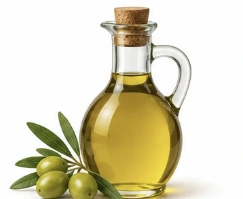
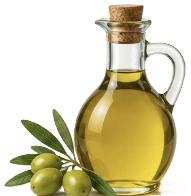
Φωνολογική Επίγνωση: 169 pictures (167 words) instead of emoji

diff --git a/eidiki-ekpaideysi/fonologiki-epignosi/paixnidi/js/pictures.js b/eidiki-ekpaideysi/fonologiki-epignosi/paixnidi/js/pictures.js
@@ -19,30 +19,36 @@
         'αυτοκινητο': 'aytokinito', 'αχλαδι': 'achladi', 'βαζο': 'vazo', 'βαλιτσα': 'valitsa', 'βαρελι': 'vareli', 'βαρκα': 'varka',
         'βατομουρα': 'vatomoura', 'βατομουρο': 'vatomoura', 'βατραχοσ': 'vatraxos', 'βγεσ': 'vges', 'βελονα': 'veloni', 'βελονι': 'veloni',
         'βερικοκο': 'verikoko', 'βιβλιο': 'vivlio', 'βιδα': 'vida', 'βιολι': 'violi', 'βοτανο': 'votano', 'βοτσαλα': 'votsala', 'βοτσαλο': 'votsala',
-        'βουνο': 'vouno', 'βροχη': 'vrochi', 'βρυση': 'vrysi', 'γαλα': 'gala', 'γατα': 'gata', 'γατακι': 'gata', 'γατος': 'gata', 'γεφυρα': 'gefyra',
-        'γομα': 'goma', 'γραβατα': 'gravata', 'δασοσ': 'dasos', 'δελφινι': 'delfini', 'δεμα': 'dema', 'δεντρακι': 'dentro', 'δεντρο': 'dentro',
-        'δρακοσ': 'drakos', 'δωρο': 'doro', 'εκκλησια': 'ekklisia', 'ελαφι': 'elafi', 'ελεφαντασ': 'elefantas', 'ελια': 'elia',
-        'ελικοπτερο': 'elikoptero', 'ζαμπον': 'zabon', 'ζαρι': 'zaria', 'ζαρια': 'zaria', 'ηλιοσ': 'ilios', 'ημερολογιο': 'imerologio',
-        'ηφαιστειο': 'ifaisteio', 'θαλασσα': 'thalassa', 'θεατρο': 'theatro', 'θερμομετρο': 'thermometro', 'καδοσ': 'kados', 'καμηλα': 'kamila',
-        'καπελο': 'kapelo', 'καρεκλα': 'karekla', 'καροτο': 'karoto', 'κερασι': 'kerasi', 'κερι': 'keri', 'κεφαλι': 'kefali', 'κλειδι': 'kleidi',
-        'κολονα': 'kolona', 'κουνελι': 'kouneli', 'κουταλι': 'koutali', 'κουτι': 'kouti', 'κρεβατι': 'krevati', 'λαδι': 'ladi', 'λεμονι': 'lemoni',
-        'λυκοσ': 'lykos', 'μαιμου': 'maimou', 'μαμα': 'mitera', 'ματι': 'mati', 'μελι': 'meli', 'μηλο': 'milo', 'μητερα': 'mitera',
-        'μολυβι': 'molyvi', 'μπαλονι': 'baloni', 'μπιζελι': 'bizeli', 'μυτη': 'myti', 'μωρο': 'moro', 'νεραιδα': 'neraida', 'νερο': 'nero',
-        'νοτα': 'nota', 'ντοματα': 'domata', 'νυχι': 'nychi', 'οδηγοσ': 'odigos', 'οδοντοβουρτσα': 'ododovourtsa', 'οδοσ': 'odos',
-        'ομελετα': 'omeleta', 'ομπρελα': 'obrela', 'ονειρο': 'oneiro', 'παπακι': 'papaki', 'πατατα': 'patata', 'πεπονι': 'peponi', 'πιτα': 'pita',
-        'ποδηλατο': 'podilato', 'ποδι': 'podi', 'ποταμι': 'potami', 'πουλι': 'pouli', 'ροδα': 'roda', 'ρολοι': 'roloi', 'σαλατα': 'salata',
-        'σαπουνι': 'sapouni', 'σελιδα': 'selida', 'τονοσ': 'tonos', 'τοπι': 'topi', 'τρενο': 'treno', 'τυρι': 'tyri', 'φακοσ': 'fakos',
-        'φαλαινα': 'falaina', 'φαναρι': 'fanari', 'φασολι': 'fasoli', 'φεγγαρι': 'fengari', 'φιδι': 'fidi', 'φλιτζανι': 'flitzani',
-        'φραουλα': 'fraoula', 'φτερο': 'ftero', 'φωτια': 'fotia', 'χαμογελο': 'chamogelo', 'χαρτησ': 'chartis', 'χελωνα': 'xelona', 'χερι': 'cheri',
-        'χιονανθρωποσ': 'chionanthropos', 'χιονι': 'chioni', 'χοροσ': 'choros', 'χταποδι': 'xtapodi', 'ψαλιδι': 'psalidi', 'ψαρασ': 'psaras',
-        'ψαρι': 'psari', 'ψητο': 'psito', 'ψιψινα': 'gata', 'ψυγειο': 'psygeio', 'ψωμι': 'psomi',
+        'βουνο': 'vouno', 'βροχη': 'vrochi', 'βρυση': 'vrysi', 'γαιδουρι': 'gaidouri', 'γαλα': 'gala', 'γατα': 'gata', 'γατακι': 'gata',
+        'γατος': 'gata', 'γεφυρα': 'gefyra', 'γομα': 'goma', 'γραβατα': 'gravata', 'δασοσ': 'dasos', 'δελφινι': 'delfini', 'δεμα': 'dema',
+        'δεντρακι': 'dentro', 'δεντρο': 'dentro', 'δρακοσ': 'drakos', 'δωρο': 'doro', 'εκκλησια': 'ekklisia', 'ελατο': 'elato', 'ελαφι': 'elafi',
+        'ελεφαντασ': 'elefantas', 'ελια': 'elia', 'ελικοπτερο': 'elikoptero', 'ζαμπον': 'zabon', 'ζαρι': 'zaria', 'ζαρια': 'zaria', 'ζωα': 'zoa',
+        'ζωγραφια': 'zografia', 'ηλιοσ': 'ilios', 'ημερολογιο': 'imerologio', 'ηφαιστειο': 'ifaisteio', 'θαλασσα': 'thalassa', 'θεατρο': 'theatro',
+        'θερμομετρο': 'thermometro', 'θυριδα': 'thyrida', 'καδοσ': 'kados', 'καλαθι': 'kalathi', 'καμηλα': 'kamila', 'καπελο': 'kapelo',
+        'καρεκλα': 'karekla', 'καροτο': 'karoto', 'κερασι': 'kerasi', 'κερι': 'keri', 'κεφαλι': 'kefali', 'κλειδι': 'kleidi', 'κολονα': 'kolona',
+        'κοπελα': 'kopela', 'κουνελι': 'kouneli', 'κουταλι': 'koutali', 'κουτι': 'kouti', 'κρεβατι': 'krevati', 'λαδι': 'ladi', 'λεμονι': 'lemoni',
+        'λεωφορειο': 'leoforeio', 'λιονταρι': 'liodari', 'λουλουδι': 'louloudi', 'λοφοσ': 'lofos', 'λυκοσ': 'lykos', 'μαιμου': 'maimou',
+        'μαμα': 'mitera', 'μανιταρι': 'manitari', 'μαξιλαρι': 'maxilari', 'ματι': 'mati', 'μελι': 'meli', 'μελισσα': 'melissa', 'μηλο': 'milo',
+        'μητερα': 'mitera', 'μολυβι': 'molyvi', 'μπαλονι': 'baloni', 'μπανανα': 'banana', 'μπιζελι': 'bizeli', 'μυτη': 'myti', 'μωρο': 'moro',
+        'ναοσ': 'naos', 'νεραιδα': 'neraida', 'νερο': 'nero', 'νησι': 'nisi', 'νοτα': 'nota', 'ντοματα': 'domata', 'νυχι': 'nychi',
+        'οδηγοσ': 'odigos', 'οδοντοβουρτσα': 'ododovourtsa', 'οδοσ': 'odos', 'ομελετα': 'omeleta', 'ομπρελα': 'obrela', 'ονειρο': 'oneiro',
+        'πανι': 'pani', 'παπακι': 'papaki', 'πατατα': 'patata', 'πεπονι': 'peponi', 'πεταλουδα': 'petalouda', 'πιτα': 'pita', 'ποδηλατο': 'podilato',
+        'ποδι': 'podi', 'πορτα': 'porta', 'ποταμι': 'potami', 'πουλι': 'pouli', 'ραδιο': 'radio', 'ρακετα': 'raketa', 'ροδα': 'roda',
+        'ρολοι': 'roloi', 'σαλατα': 'salata', 'σαπουνι': 'sapouni', 'σελιδα': 'selida', 'σεντονι': 'sedoni', 'σκαλα': 'skala', 'σκυλακι': 'skylaki',
+        'σκυλοσ': 'skylos', 'σοκολατα': 'sokolata', 'σπιτι': 'spiti', 'συννεφο': 'synnefo', 'τηγανι': 'tigani', 'τηλεφωνο': 'tilefono',
+        'τονοσ': 'tonos', 'τοπι': 'topi', 'τρενο': 'treno', 'τυρι': 'tyri', 'φακοσ': 'fakos', 'φαλαινα': 'falaina', 'φαναρι': 'fanari',
+        'φασολι': 'fasoli', 'φεγγαρι': 'fengari', 'φιδι': 'fidi', 'φλιτζανι': 'flitzani', 'φραουλα': 'fraoula', 'φτερο': 'ftero', 'φωσ': 'fos',
+        'φωτια': 'fotia', 'χαμογελο': 'chamogelo', 'χαρταετοσ': 'chartaetos', 'χαρτησ': 'chartis', 'χελι': 'cheli', 'χελωνα': 'xelona',
+        'χερι': 'cheri', 'χιονανθρωποσ': 'chionanthropos', 'χιονι': 'chioni', 'χοροσ': 'choros', 'χταποδι': 'xtapodi', 'ψαλιδι': 'psalidi',
+        'ψαρασ': 'psaras', 'ψαρι': 'psari', 'ψητο': 'psito', 'ψιψινα': 'gata', 'ψυγειο': 'psygeio', 'ψωμι': 'psomi',
+        'screenshot 2026-10-07 130606': 'screenshot-2026-10-07-130606',
     };
 
     // τα κλειδιά περνούν από την ίδια fold() (π.χ. το τελικό ς γίνεται σ), ώστε να ταιριάζουν με τις λέξεις του παιχνιδιού
     const MAP = {}; Object.keys(PICS).forEach((k) => { MAP[fold(k)] = PICS[k]; });
 
     // αύξησε τον αριθμό όταν αλλάζεις κάποια εικόνα, για να την ξαναφορτώσουν οι browsers
-    const V = 3;
+    const V = 4;
 
     const wrap = (emoji, word) => {
         const file = MAP[fold(word)];

diff --git a/eidiki-ekpaideysi/fonologiki-epignosi/paixnidi/index.html b/eidiki-ekpaideysi/fonologiki-epignosi/paixnidi/index.html
@@ -59,7 +59,7 @@
     <script src="js/games/level3.js?v=91"></script>
     <script src="js/games/level4.js?v=91"></script>
     <script src="js/games/level5.js?v=91"></script>
-    <script src="js/pictures.js?v=96"></script>
+    <script src="js/pictures.js?v=97"></script>
     <script src="js/app.js?v=92"></script>
 </body>
 </html>
